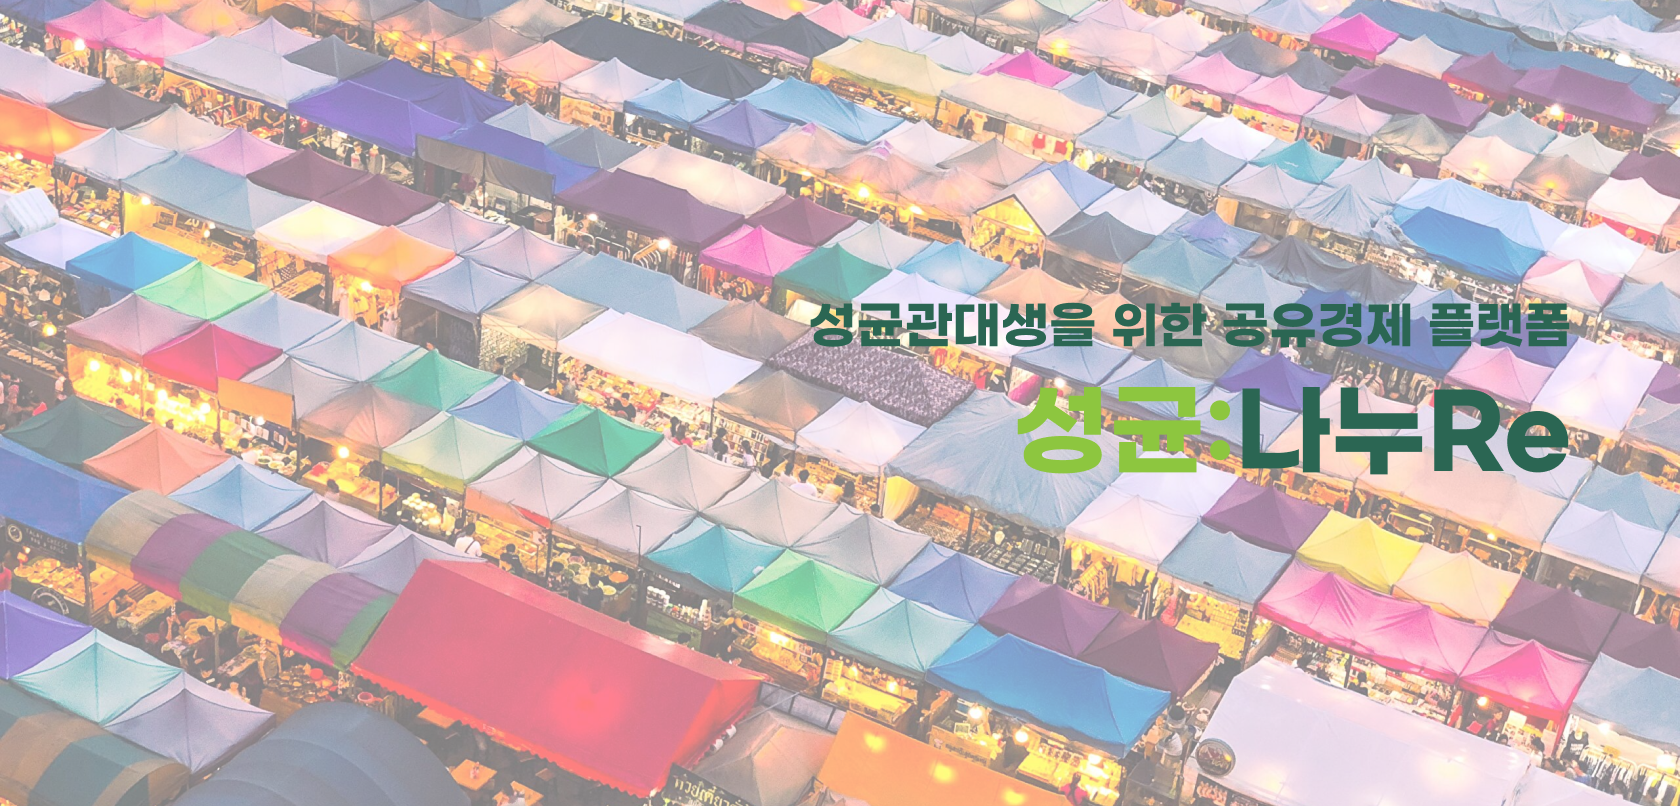
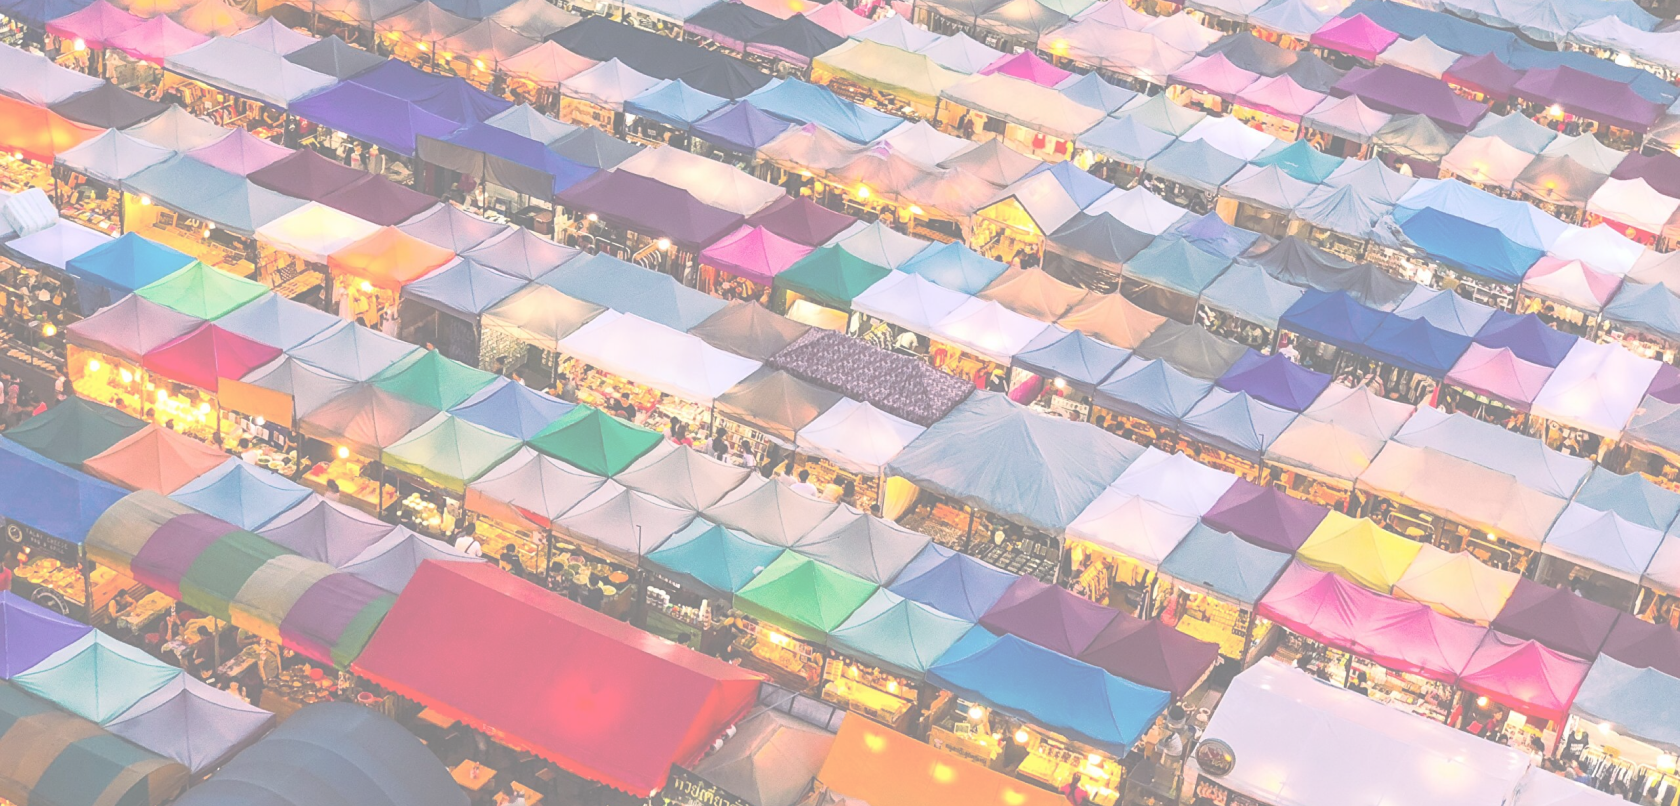
[Fix] design 수정

Changed region(s): [[0.5881, 0.4653, 0.9595, 0.5893], [0.4643, 0.3722, 0.9595, 0.4342]]

diff --git a/src/pages/Main/index.js b/src/pages/Main/index.js
@@ -68,10 +68,16 @@ function MainPage() {
 
   return (
     <>
-      <MainPictureContainer
-        src={MainPicture}
-        alt="main_picture"
-      ></MainPictureContainer>
+      <WapperPicture>
+        <>성균관대생을 위한 공유경제 플랫폼</>
+        <>성균:나누Re</>
+        <MainPictureContainer
+          src={MainPicture}
+          alt="main_picture"
+        ></MainPictureContainer>
+        <WapperText></WapperText>
+      </WapperPicture>
+
       <Container>
         <AnnouncementTitle>공지사항</AnnouncementTitle>
         <AnnouncementContainer>
@@ -84,6 +90,7 @@ function MainPage() {
               ))
             : ""}
         </AnnouncementContainer>
+        <Gap height={50} />
         <TitleBox>
           <SubTitle>최근에 올라온&nbsp;</SubTitle>
           <Title>대여원해요</Title>
@@ -103,6 +110,7 @@ function MainPage() {
               ))
             : ""}
         </CardContainer>
+        <Gap height={50} />
         <TitleBox>
           <SubTitle>최근에 올라온&nbsp;</SubTitle>
           <Title>대여합니다</Title>
@@ -121,11 +129,12 @@ function MainPage() {
               ))
             : ""}
         </CardContainer>
+        <Gap height={50} />
         <TitleBox>
           <SubTitle>최근에 올라온&nbsp;</SubTitle>
-          <Title>나눔</Title>
+          <Title>나눔합시다</Title>
         </TitleBox>
-        <Explain>함께 나눔을 실천 해봐요</Explain>
+        <Explain>학우들과 함께 나눔을 실천해 지구를 지켜요</Explain>
         <CardContainer>
           {shareList.length > 0
             ? shareList.map((share) => (
@@ -158,9 +167,22 @@ const Container = styled.div`
   margin-right: auto;
 `;
 
+const WapperPicture = styled.div`
+  width: 100%;
+  position: relative;
+`;
+
+const WapperText = styled.div`
+  width: 100%;
+  top: 40%;
+  left: 50%;
+  position: absolute;
+  text-align: right;
+`;
+
 const AnnouncementTitle = styled.div`
   color: #ff6c0f;
-  font-size: 60px;
+  font-size: 40px;
   font-weight: bold;
 `;
 
@@ -180,13 +202,13 @@ const TitleBox = styled.div`
 `;
 const SubTitle = styled.div`
   margin-top: 37px;
-  font-size: 60px;
+  font-size: 40px;
   color: black;
 `;
 
 const Title = styled.div`
   color: #2b6653;
-  font-size: 60px;
+  font-size: 40px;
   font-weight: bold;
 `;
 

diff --git a/src/components/common/BasicLayout/styles.js b/src/components/common/BasicLayout/styles.js
@@ -1,11 +1,11 @@
 import styled from "@emotion/styled";
 
 export const CoveredLayout = styled.div`
-  display: flex;
+  width: 100%;
+  padding: 40px;
 `;
 
 export const StyledLayout = styled.div`
-  background-color: red;
-  min-width: 100px;
-  max-width: 50vh;
+  width: min-content;
+  margin: 0 auto;
 `;

diff --git a/src/components/common/BasicLayout/index.js b/src/components/common/BasicLayout/index.js
@@ -1,7 +1,11 @@
 import { StyledLayout, CoveredLayout } from "./styles";
 
 function BasicLayout(props) {
-  return <StyledLayout>{props.children}</StyledLayout>;
+  return (
+    <CoveredLayout>
+      <StyledLayout>{props.children}</StyledLayout>
+    </CoveredLayout>
+  );
 }
 
 export default BasicLayout;

diff --git a/src/components/SearchBox/index.js b/src/components/SearchBox/index.js
@@ -19,7 +19,7 @@ function SearchBox(props) {
         type="button"
         value={props.value}
         className="basic"
-        text="POST +"
+        text="POST"
         onClick={handleClickPostButton}
       ></Button>
     </SearchBoxContainer>

diff --git a/src/components/SearchBox/styles.js b/src/components/SearchBox/styles.js
@@ -2,7 +2,7 @@ import styled from "@emotion/styled";
 
 export const SearchBoxContainer = styled.div`
   width: 100%;
-  min-width: 500px;
+  min-width: 700px;
   height: 40px;
   margin-bottom: 20px;
   display: flex;

diff --git a/src/components/common/PostButton/styles.js b/src/components/common/PostButton/styles.js
@@ -1,7 +1,7 @@
 import styled from "@emotion/styled";
 
 export const StyledButton = styled.div`
-  width: 120px;
+  width: 150px;
   min-width: max-content;
   height: 40px;
 `;
